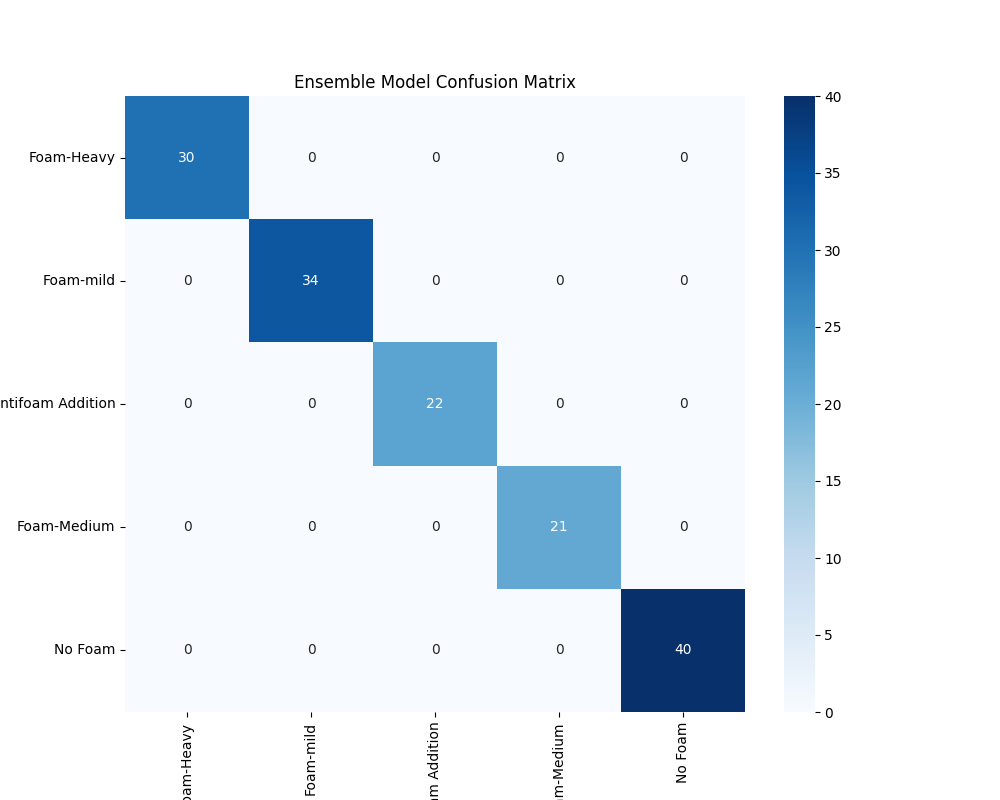
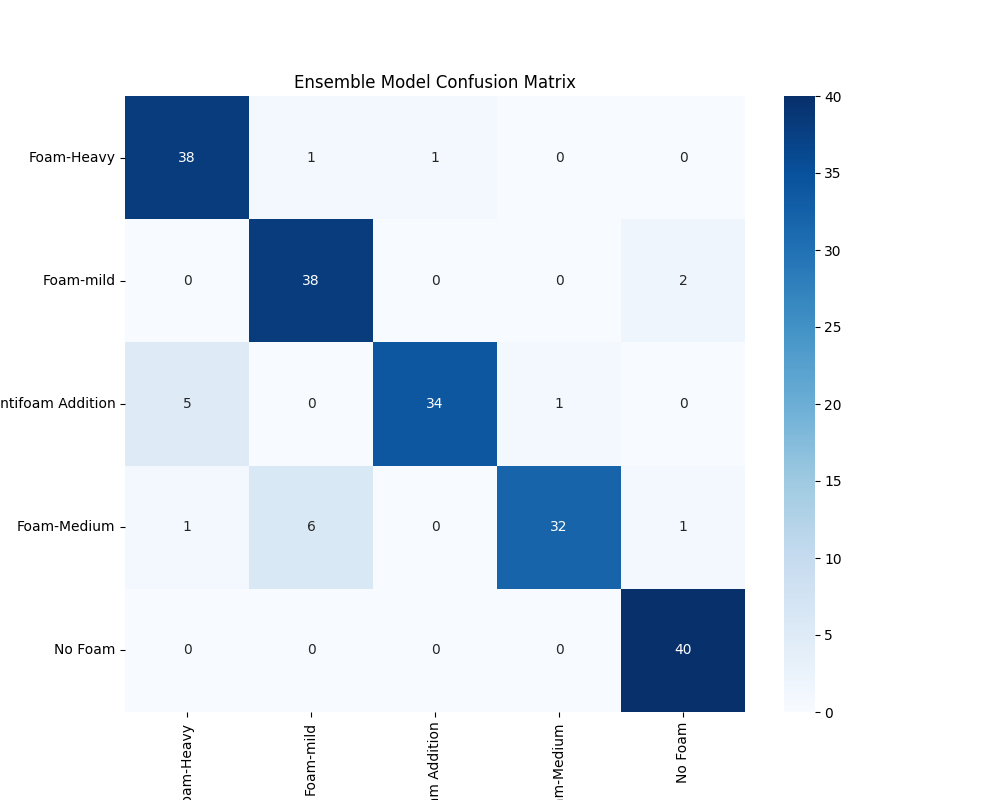
Ensemble Model 91%
Best weights found - CNN: 0.40, ViT: 0.60

Evaluating final ensemble model...
Evaluating 200 test samples...

Ensemble Model Results:
Accuracy: 0.9100

Classification Report:
                        precision    recall  f1-score   support

            Foam-Heavy       0.86      0.95      0.90        40
             Foam-mild       0.84      0.95      0.89        40
Post-Antifoam Addition       0.97      0.85      0.91        40
           Foam-Medium       0.97      0.80      0.88        40
               No Foam       0.93      1.00      0.96        40

              accuracy                           0.91       200
             macro avg       0.92      0.91      0.91       200
          weighted avg       0.92      0.91      0.91       200

Changed region(s): [[0.124, 0.0938, 0.62, 0.75]]

diff --git a/ensemblepreaugmentation.py b/ensemblepreaugmentation.py
@@ -69,11 +69,6 @@ class EnsembleClassifier:
                 if img_file.endswith(('.jpg', '.jpeg', '.png')):
                     image_paths.append(os.path.join(class_dir, img_file))
             
-            augmented_dir = os.path.join(class_dir, 'augmented')
-            if os.path.exists(augmented_dir):
-                for img_file in os.listdir(augmented_dir):
-                    if img_file.endswith(('.jpg', '.jpeg', '.png')):
-                        image_paths.append(os.path.join(augmented_dir, img_file))
             
             for img_path in image_paths:
                 try:
@@ -215,10 +210,10 @@ def plot_results(results, class_names, save_dir='figures'):
         xticklabels=class_names,
         yticklabels=class_names
     )
-    plt.title('Ensemble Model Confusion Matrix')
+    plt.title('Ensemble Model PreAugmentation Confusion Matrix')
     plt.ylabel('True label')
     plt.xlabel('Predicted label')
-    plt.savefig(os.path.join(save_dir, 'ensemble_confusion_matrix.png'))
+    plt.savefig(os.path.join(save_dir, 'ensemble_preaugmentation_confusion_matrix.png'))
     plt.close()
 
 def main():
